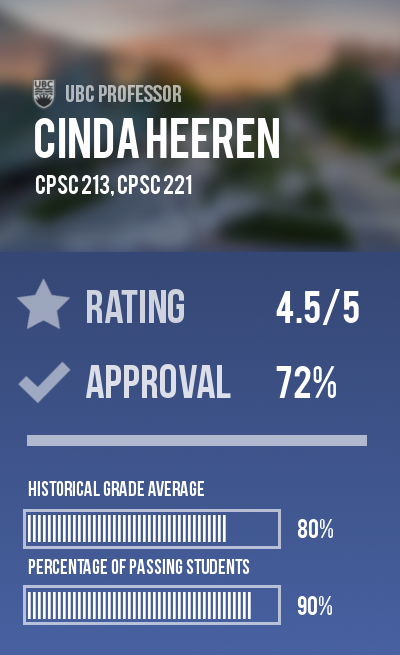
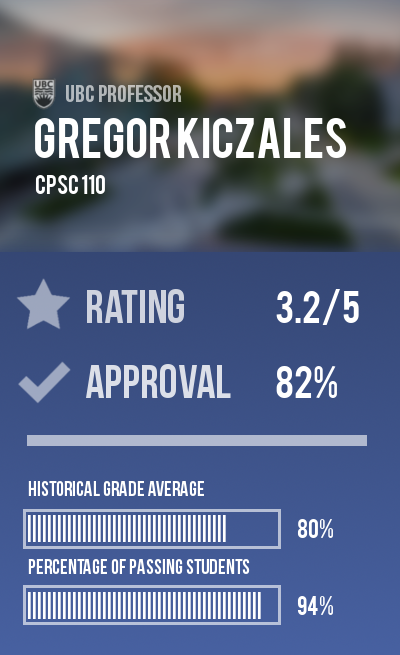
Demo commit (added in background.png for successful rendering)

diff --git a/services/slack_bot.py b/services/slack_bot.py
@@ -11,7 +11,7 @@ from slackclient import SlackClient
 from services.getProfHTML import professorURL
 
 # instantiate Slack client
-slack_token = 'xoxb-535205496215-534355130885-jruRa9Wmhrrx9mELeMyWpKZQ' # enter access ID
+slack_token = 'xoxb-535205496215-534355130885-QdfwMUl5FPodfJEWah9Byuti' # enter access ID
 sc = SlackClient(slack_token)
 # starterbot's user ID in Slack
 starterbot_id = None

diff --git a/services/visualizer/visualizer.py b/services/visualizer/visualizer.py
@@ -73,3 +73,5 @@ def generateImage(profName, courses, rating, approval, average, passing):
     draw.text((x + 270, y+78), passing, fill=color, font=smallFont)
 
     image.save('profStats.png')
+
+generateImage("Gregor Kiczales", "CPSC 110", '3.2', '82', '80%', "94%")
